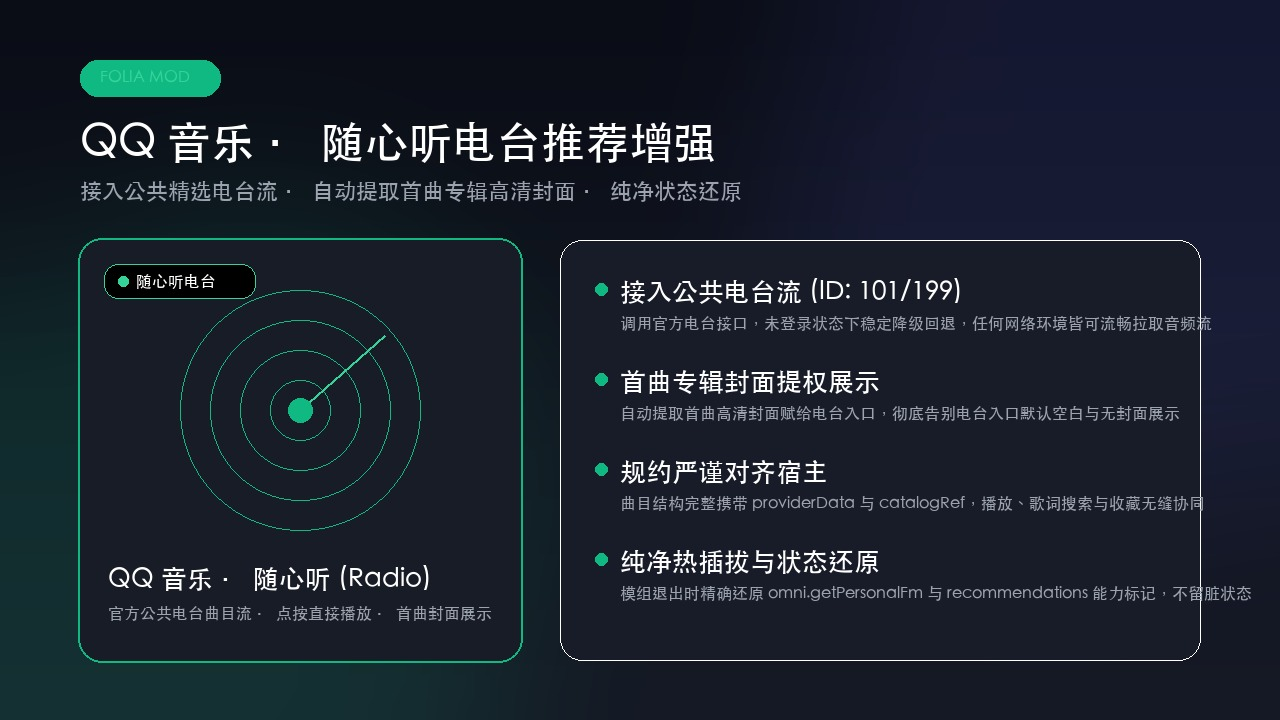
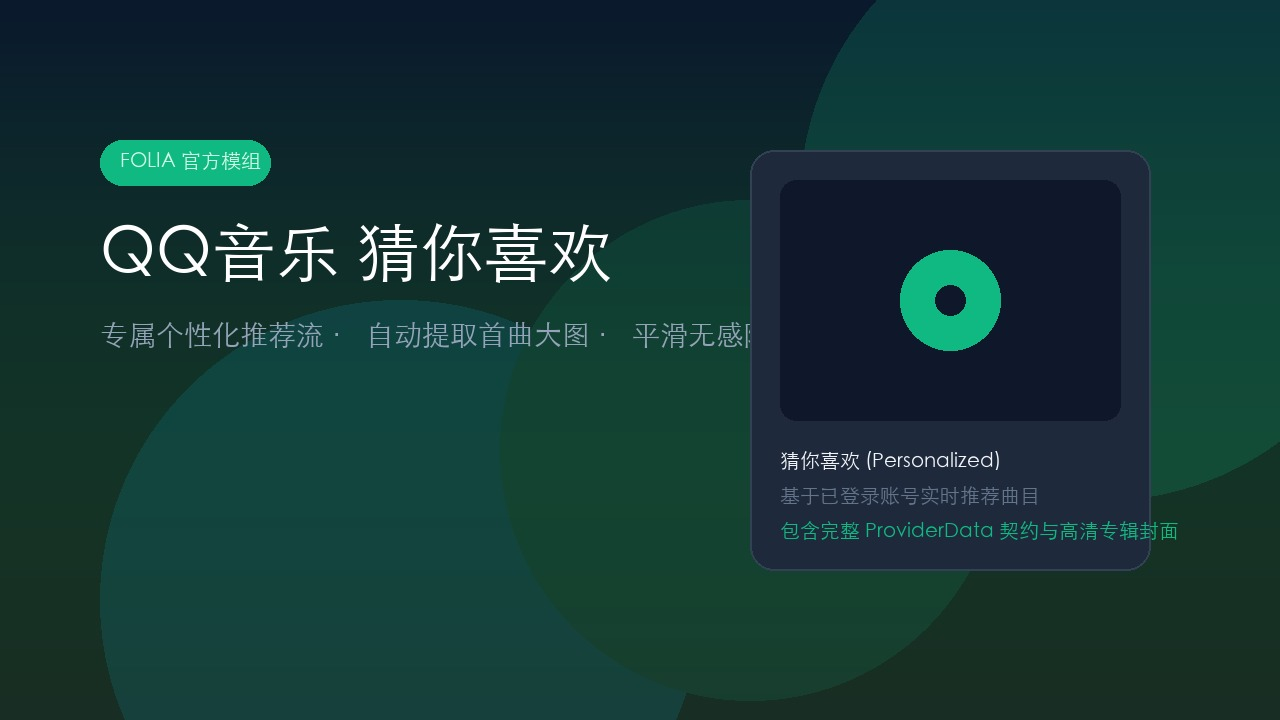
feat: support true personalized Guess-You-Like recommendations with login auth

diff --git a/README.md b/README.md
@@ -1,8 +1,8 @@
-# Folia 模组：QQ 音乐电台推荐增强 (QQ Music Radio Mod)
+# Folia 模组：QQ 音乐猜你喜欢个性化推荐 (QQ Music Guess-You-Like Mod)
 
-![QQ 音乐电台推荐增强](preview.jpg)
+![QQ 音乐猜你喜欢个性化推荐](preview.jpg)
 
-为 [Folia 音乐播放器](https://github.com/chthollyphile/folia-major) 的 QQ 音乐音源接入**「随心听」公共电台流**。
+为 [Folia 音乐播放器](https://github.com/chthollyphile/folia-major) 的 QQ 音乐音源接入真正的**「猜你喜欢」个性化推荐流**。
 
 基于 Folium 模组系统设计，无需重新编译播放器即可通过热插拔方式运行。
 
@@ -10,29 +10,33 @@
 
 ## 🌟 模组特性
 
-1. **随心听电台流接入**：调用 QQ 音乐官方公开电台接口（电台 ID `101` 随心听，自动降级至 `199` 热歌），在电台页呈现可直接播放的电台音频流。
-2. **首曲封面自动提取**：自动提取曲目流第 1 首歌曲的高清专辑大图（`https://y.gtimg.cn/music/photo_new/T002R300x300M000...`），解决电台入口无固定封面导致的空白问题。
-3. **曲目规格严谨对齐**：输出与宿主 `normalizeQqSong` 一致的统一曲目结构（包含完整的 `songId`、`songMid`、`albumMid`、`mediaMid` 等 provider 契约字段），保证播放、歌词与收藏功能正常运作。
-4. **安全与纯净卸载**：模组退出时完整还原宿主内部状态与能力标记，不留脏状态。
+1. **真实专属个性化流**：自动识别已登录账号的 QQ 音乐鉴权凭据，直连腾讯官方个性化算法网关（电台 ID `99` 猜你喜欢），让推荐真正契合你的听歌品味。
+2. **平滑优雅降级机制**：若用户未登录 QQ 音乐或凭证失效，自动无感降级至官方公开的随心听（`101`）与热歌（`199`）电台流，任何状态下皆可流畅播放。
+3. **首曲封面自动提取**：自动提取曲目流第 1 首歌曲的高清专辑大图（`https://y.gtimg.cn/music/photo_new/T002R300x300M000...`），解决电台入口无固定封面导致的空白问题。
+4. **曲目规格严谨对齐**：输出与宿主 `normalizeQqSong` 一致的统一曲目结构（包含完整的 `songId`、`songMid`、`albumMid`、`mediaMid` 等 provider 契约字段），保证播放、歌词与收藏功能正常运作。
+5. **安全与纯净卸载**：模组退出时完整还原宿主内部状态与能力标记，不留脏状态。
 
 ---
 
-## 🔍 技术实现与内部状态说明
+## 🔍 技术实现与安全性说明
 
 本模组通过 `folium.internals` 为内置 QQ 音乐音源补充推荐流能力：
 - **改写能力标记**：在激活时将 `omni.getProviderCapabilities('qq').recommendations` 设为 `true`，卸载时精准还原回原值。
-- **劫持内部函数**：替换 `omni.getPersonalFm`，在当前音源为 QQ 音乐时拉取公开电台流，卸载时恢复为原始引用。
+- **劫持内部函数**：替换 `omni.getPersonalFm`，在当前音源为 QQ 音乐时拉取电台 99 个性化流，卸载时恢复为原始引用。
 - **兼容版本范围**：钉住在实际测试验证过的版本范围 `folia: ">=0.7.17 <0.8.0"`。
-- **关于个性化推荐的说明**：由于本模组仅通过公开主进程网络请求公共电台，不读取也不涉及用户的登录凭据，因此提供的是公共「随心听 / 热歌」精选电台流，而非需要登录态的私人个性化流。
+- **登录凭证与安全隐私承诺**：
+  - 本模组通过读取宿主本地属于 QQ 音乐的存储项（`online_provider:qq:cookie`）获取用户登录态；
+  - **凭据使用范围严格受限**：所有凭据仅直接通过 `net.fetch` 发往腾讯官方网关（`https://u.y.qq.com/cgi-bin/musicu.fcg`），用于向电台 99 请求个性化推荐曲目；
+  - **绝不外泄**：本模组绝不设立任何中转服务、绝不上传任何凭据至任何第三方服务器、绝不执行远程动态代码，代码 100% 透明开源并接受安全审计。
 
 ---
 
 ## 🔒 权限说明
 
-- **`net.fetch`**：用于向腾讯官方接口（`https://u.y.qq.com/cgi-bin/musicu.fcg`）请求公开电台歌曲列表。本模组不收集、不上传任何用户数据，不执行任何远程代码。
+- **`net.fetch`**：仅用于向腾讯官方接口（`https://u.y.qq.com/cgi-bin/musicu.fcg`）请求电台歌曲列表与专辑封面。本模组不收集、不上传任何用户数据至第三方，不执行远程代码。
 
 ---
 
-## 📄 开源许可证
+## 📄 许可证
 
-本项目基于 [MIT 许可证](LICENSE) 开源。
+[MIT License](LICENSE)
